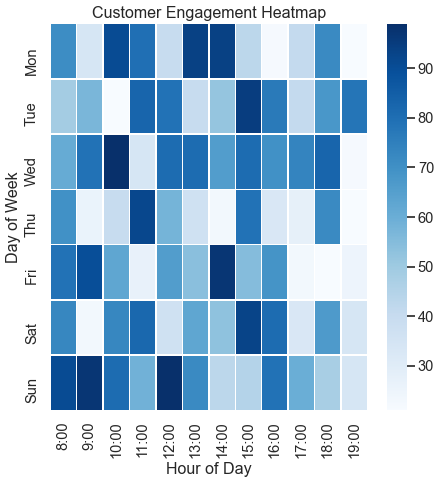
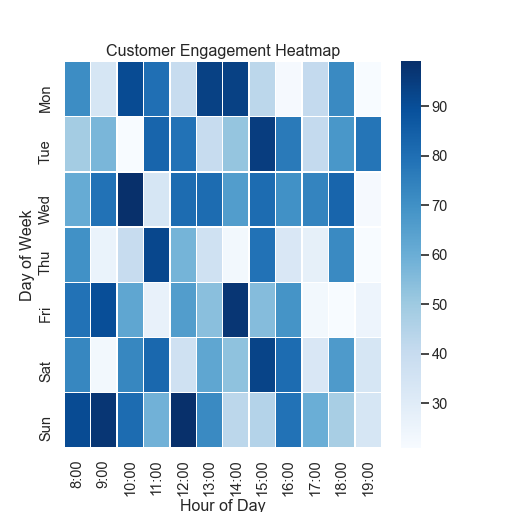
Add files via upload

diff --git a/sb/chart.py b/sb/chart.py
@@ -1,3 +1,9 @@
+# -*- coding: utf-8 -*-
+"""
+Created on Sun Dec  7 23:11:48 2025
+
+@author: Abhishek Seth
+"""
 import seaborn as sns
 import matplotlib.pyplot as plt
 import pandas as pd
@@ -27,6 +33,5 @@ plt.xlabel("Hour of Day")
 plt.ylabel("Day of Week")
 
 # Save the chart (EXACT 512x512)
-plt.savefig("chart.png", dpi=64, bbox_inches="tight")
+plt.savefig("chart.png", dpi=64)
 plt.close()
-
